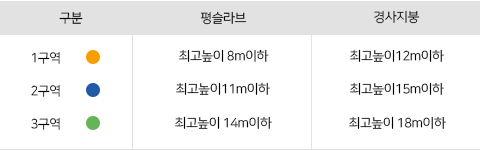
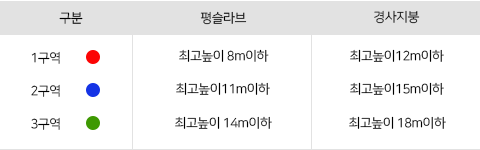
업데이트

Changed region(s): [[0.1562, 0.7733, 0.2188, 0.88], [0.1562, 0.32, 0.2188, 0.4267], [0.1562, 0.56, 0.2188, 0.64]]

diff --git a/ndtp-user/src/main/webapp/js/ko/simulation.js b/ndtp-user/src/main/webapp/js/ko/simulation.js
@@ -3593,18 +3593,21 @@ var Simulation = function(magoInstance, viewer, $) {
 		let r2 = 0;
 		// 노 파 빨
 		let img = "/images/lx/Red-XL.png";
-		if(color === '#FFC000') {
+		if(color === '#FF0B0B') {
 			img = "/images/lx/Red-XL.png";
 		} else if(color === '#6699FF') {
 			img = "/images/lx/Blue-XL.png";
+
+
 		} else if(color === '#92D050') {
 			img = "/images/lx/Green-XL.png";
 		}
 		let cesiumColor = Cesium.Color.fromAlpha(Cesium.Color.fromCssColorString(color), 0.5);
+		let pointColor = Cesium.Color.fromCssColorString(color);
 		const pointEntitiy = viewer.entities.add({
 			position: worldPosition,
 			point: {
-				color: Cesium.Color.RED,
+				color: pointColor,
 				pixelSize: 10,
 				outlineColor: Cesium.Color.YELLOW,
 				outlineWidth: 2,
@@ -3696,7 +3699,7 @@ var Simulation = function(magoInstance, viewer, $) {
 		}
 		let str = '대웅전';
 		CHArr.push(drawLabelPoint(str, CH[str][0], CH[str][1],
-			'#FFC000', 1000));
+			'#FF0B0B', 1000));
 		str = '가달고분군';
 		CHArr.push(drawLabelPoint(str, CH[str][0], CH[str][1],
 			'#6699FF', 700));
@@ -3705,7 +3708,7 @@ var Simulation = function(magoInstance, viewer, $) {
 			'#92D050', 350));
 		str = '마하사대웅전석조석가여래삼존상';
 		CHArr.push(drawLabelPoint(str, CH[str][0], CH[str][1],
-			'#FFC000', 1000));
+			'#FF0B0B', 1000));
 		str = '범방동삼층석탑';
 		CHArr.push(drawLabelPoint(str, CH[str][0], CH[str][1],
 			'#92D050', 350));
